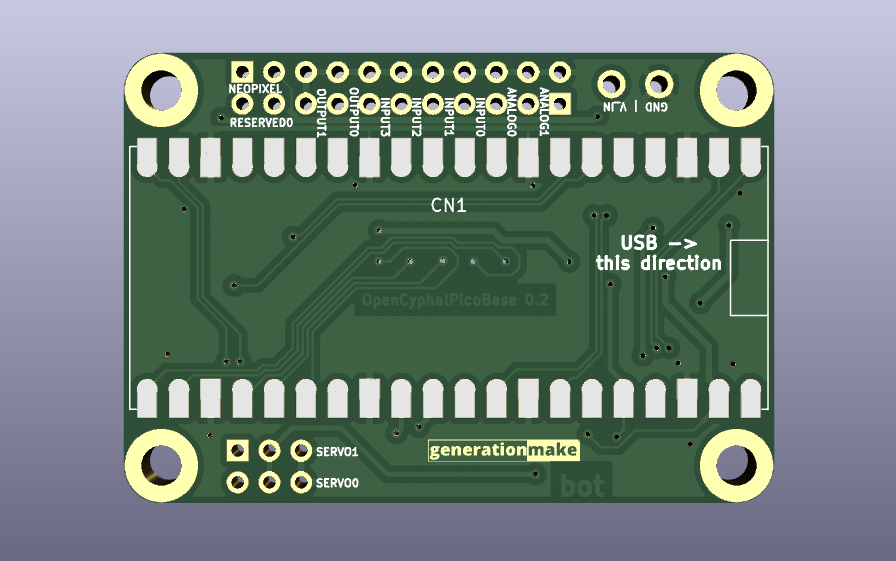
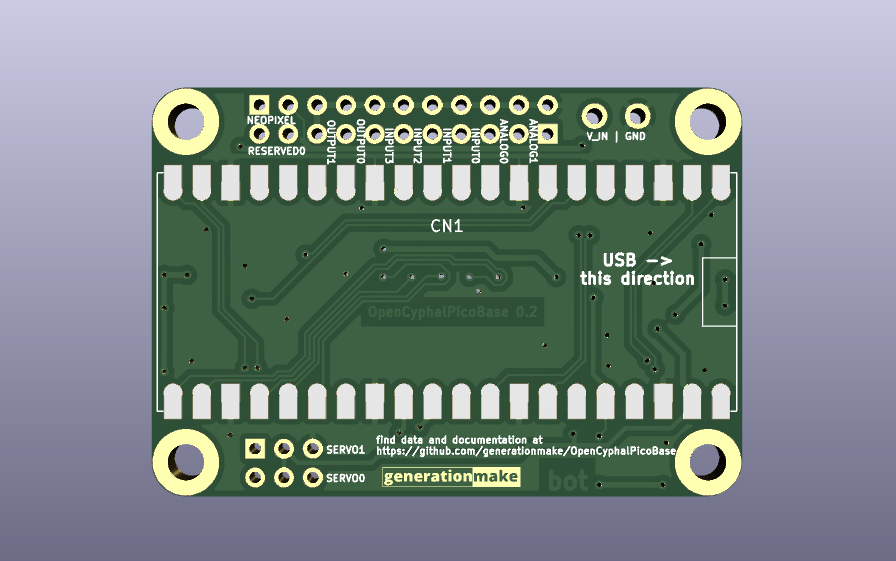
updated images

Changed region(s): [[0.125, 0.0909, 0.875, 0.9091]]

diff --git a/README.md b/README.md
@@ -3,6 +3,8 @@ Board for the Raspberry Pi Pico to connect via CAN using OpenCyphal and UCANPHY 
 
 ![OpenCyphalPicoBase rendering](docs/images/OpenCyphalPicoBase_rendering.png)
 
+![OpenCyphalPicoBase rendering back side](docs/images/OpenCyphalPicoBase_rendering_back.png)
+
 ## SOftware
 
 https://github.com/107-systems/l3xz-fw_aux-controller
